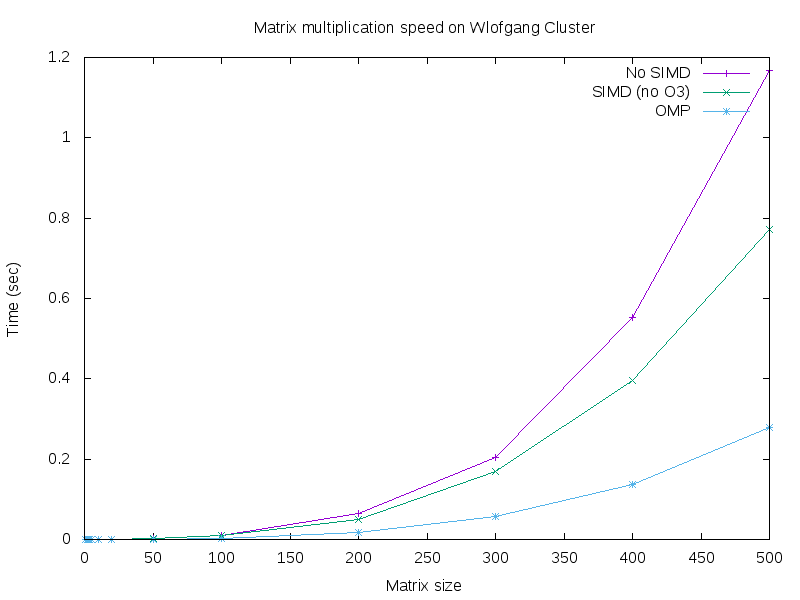
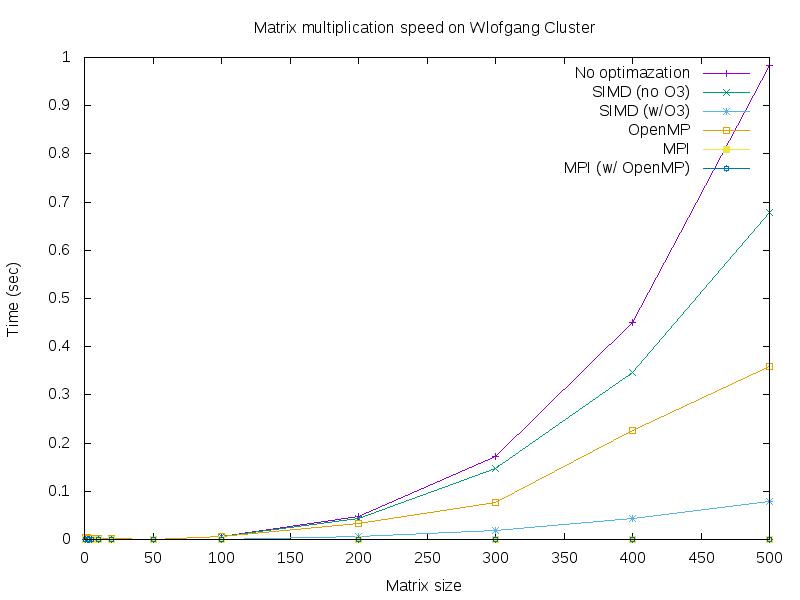
create_data.c is now working with O3 and omp

diff --git a/create_data.c b/create_data.c
@@ -29,8 +29,8 @@ int main(int argc){
       fprintf(cfPtr, ", %f", calcTime(mmult_simd,    a, b, n[i]));
       fprintf(cfPtr, ", %f", calcTime(mmult_simd_O3, a, b, n[i]));
       fprintf(cfPtr, ", %f", calcTime(mmult_omp,     a, b, n[i]));
-      fprintf(cfPtr, ", %f", 0.0 ); //TODO MPI w/o OpenMP
-      fprintf(cfPtr, ", %f", 0.0 ); //TODO MPI w/ OpenMP
+      fprintf(cfPtr, ", 0.000000"); //TODO MPI w/o OpenMP
+      fprintf(cfPtr, ", 0.000000"); //TODO MPI w/ OpenMP
 
       fprintf(cfPtr, "\n");
 
@@ -50,7 +50,7 @@ int main(int argc){
 //      clock_gettime(CLOCK_REALTIME, &start);
 //      mmult_simd_O3(c2, a, n[i], n[i], b, n[i], n[i]);
 //      clock_gettime(CLOCK_REALTIME, &end);
-//      times[3] = (double)(end.tv_sec - start.tv_sec) + (double)(end.tv_nsec - start.tv_nsec) / 1e9;
+//      times[2] = (double)(end.tv_sec - start.tv_sec) + (double)(end.tv_nsec - start.tv_nsec) / 1e9;
 //      fprintf(cfPtr, "%f ", times[2]);
 //
 //      clock_gettime(CLOCK_REALTIME, &start);

diff --git a/mat.h b/mat.h
@@ -17,5 +17,7 @@ int mmult_omp(double *c,
 int mmult_simd(double *c,
                       double *a, int aRows, int aCols,
                       double *b, int bRows, int bCols);
-
+int mmult_simd_O3(double *c,
+                      double *a, int aRows, int aCols,
+                      double *b, int bRows, int bCols);
 #endif
